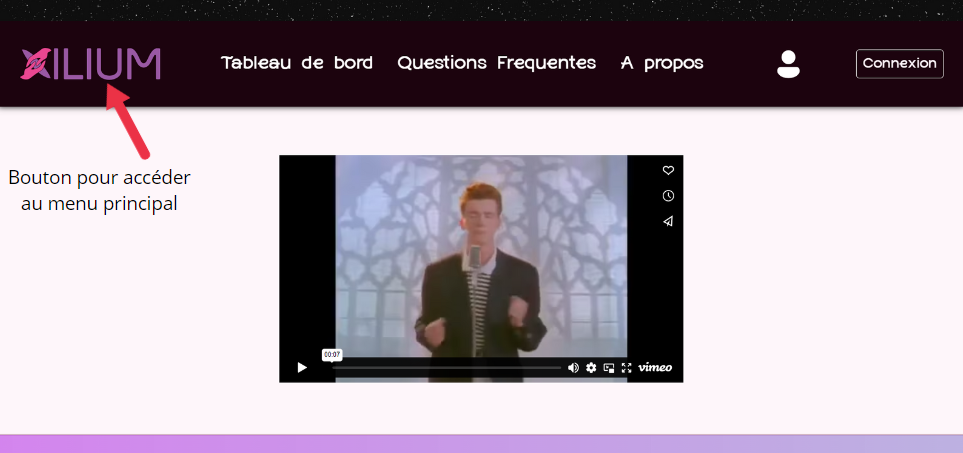
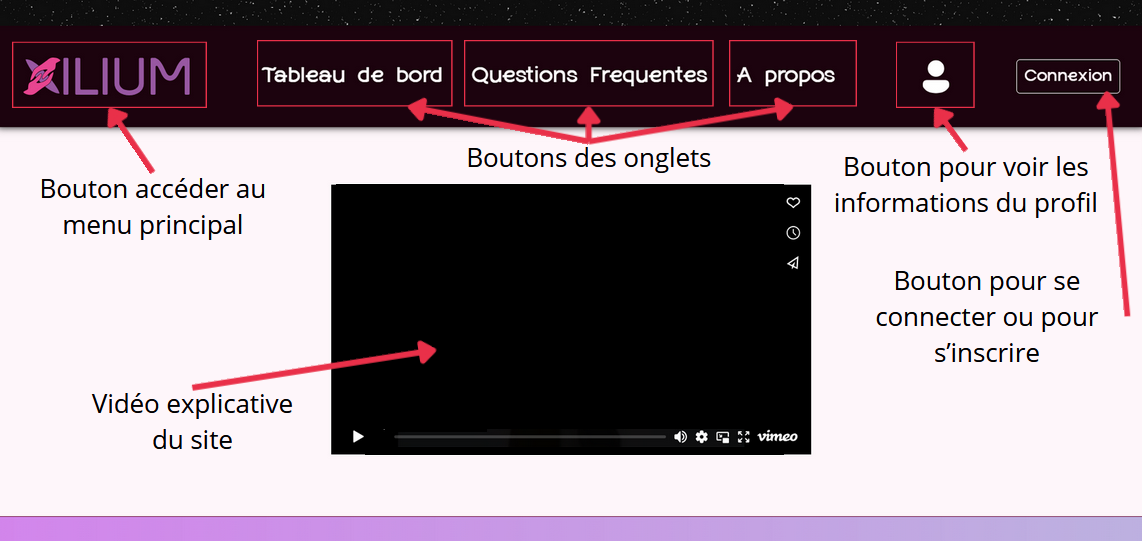
[FEAT_guide_user] présentation de la page d'accueil du site terminée

diff --git a/doc/guide_utilisateur.md b/doc/guide_utilisateur.md
@@ -6,9 +6,16 @@
 
 À votre arrivée sur le site, vous pouvez découvrir dans la partie supérieure, différents onglets de navigation.  
 De gauche à droite, sont répertoriés : 
-- Un bouton pour se rendre au menu principal du site, situé dans le nom de l'application
-- Un lot de trois onglets servant pour se déplacer respectivement dans le dashboard, la FAQ et les informations de Xilium 
-- Un 
+- Un bouton pour vous rendre au menu principal du site au clic sur le logo Xilium ainsi qu'une vidéo 
+explicative du site
+- Un lot de trois onglets pour vous déplacer respectivement dans le tableau de bord, la FAQ et les informations 
+de Xilium
+- Un bouton pour voir les informations de votre profil
+- Un bouton de connexion si vous n'êtes pas connecté
+
 ![Page d'accueil](img/page_accueil.png)
 
-###  
+En défilant, vous pouvez créer des tickets et voir les dix derniers tickets.  
+Pour voir, vos tickets en cours, il vous suffit de cliquer sur le bouton "Mes tickets en cours"
+
+![Page d'accueil ticket](img/page_accueil_tickets.png)
